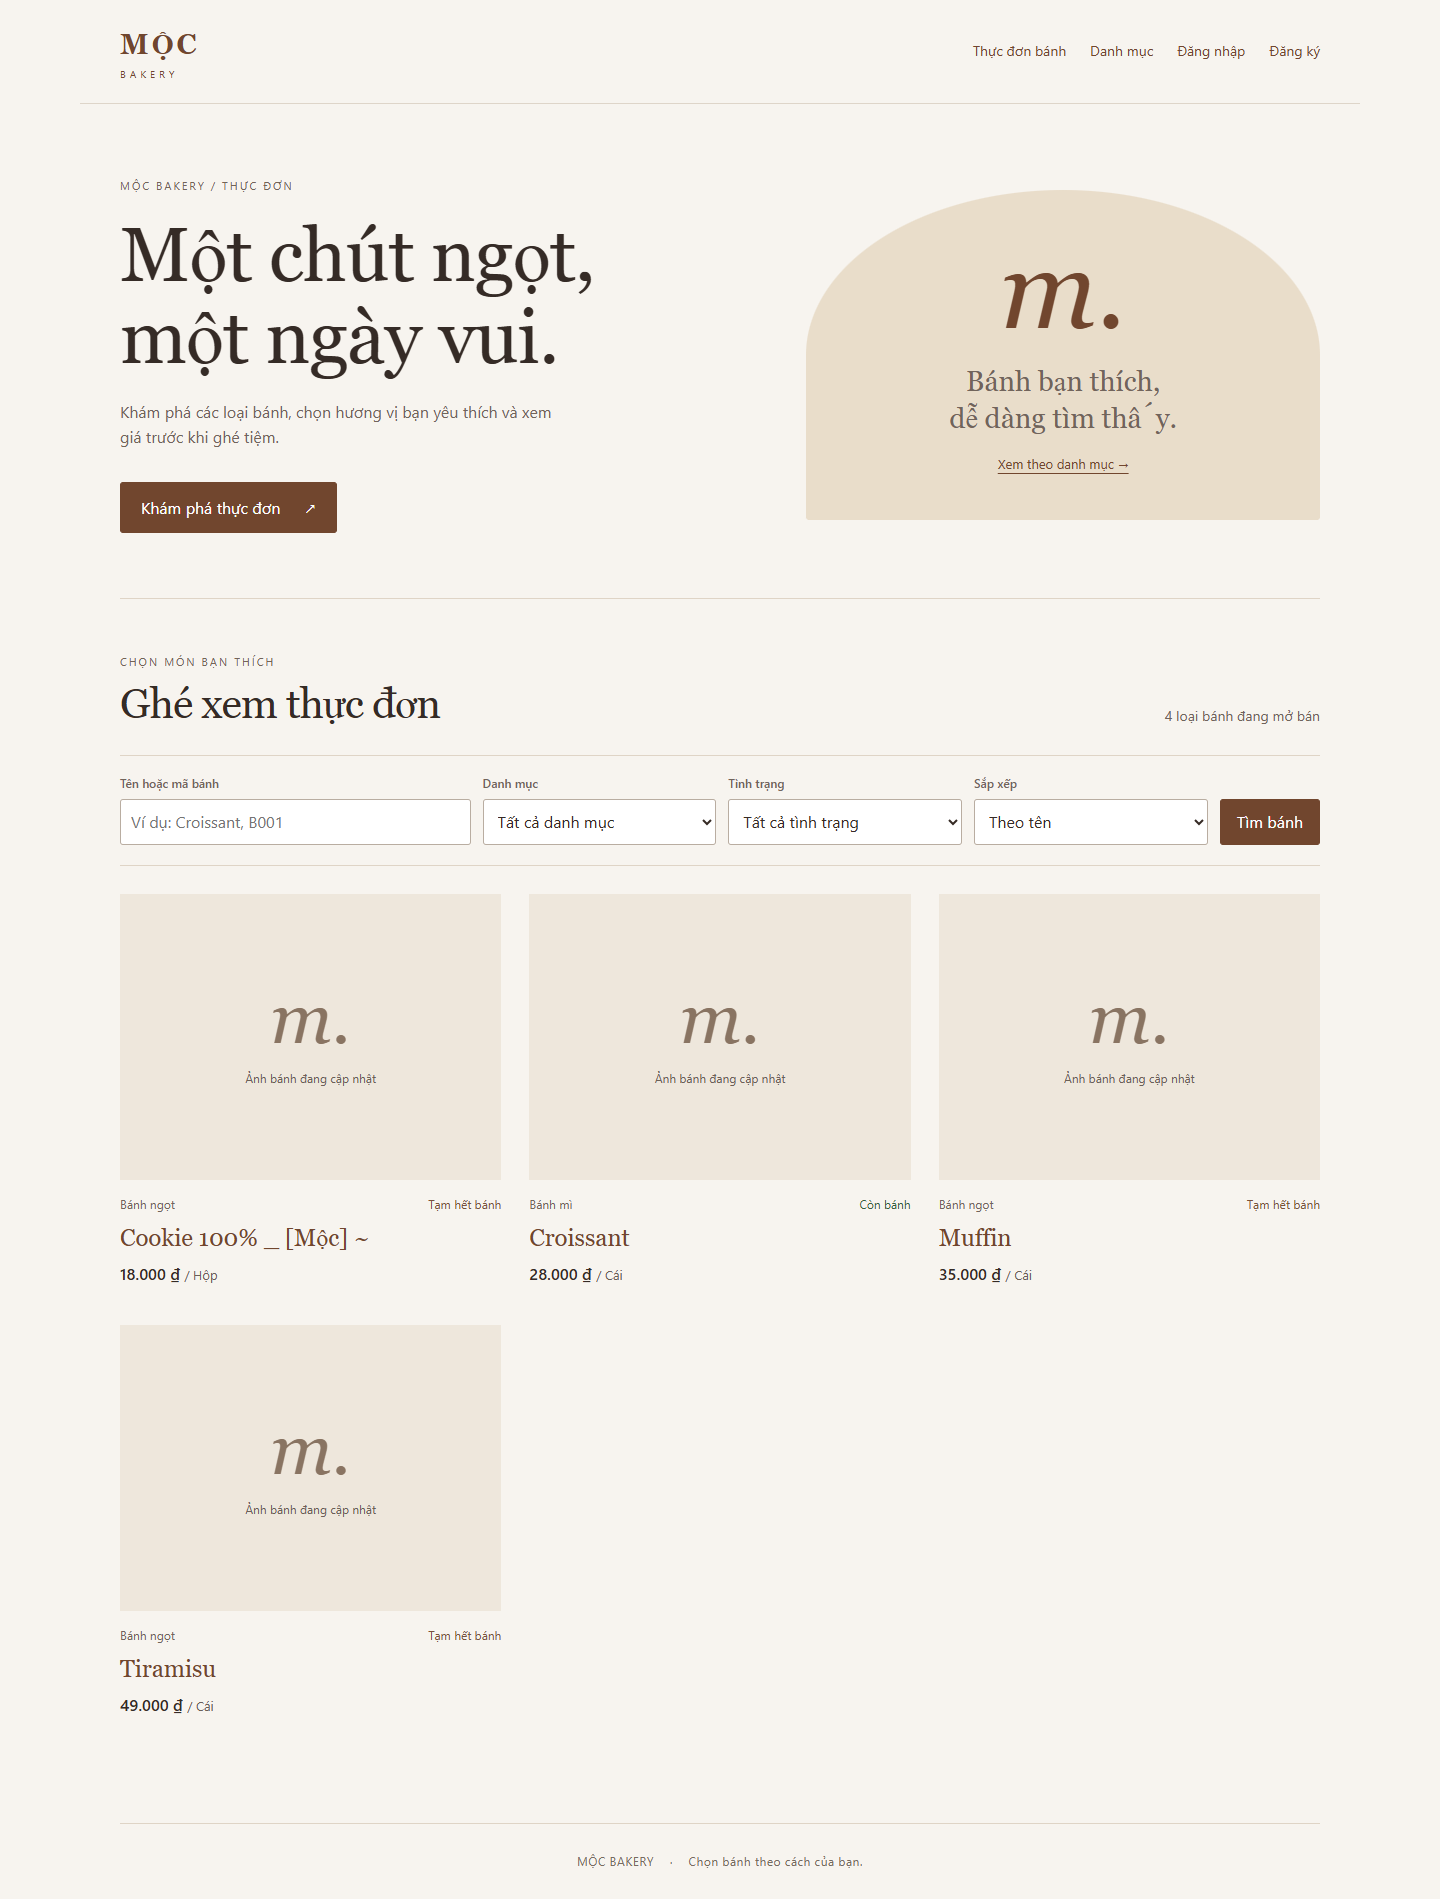
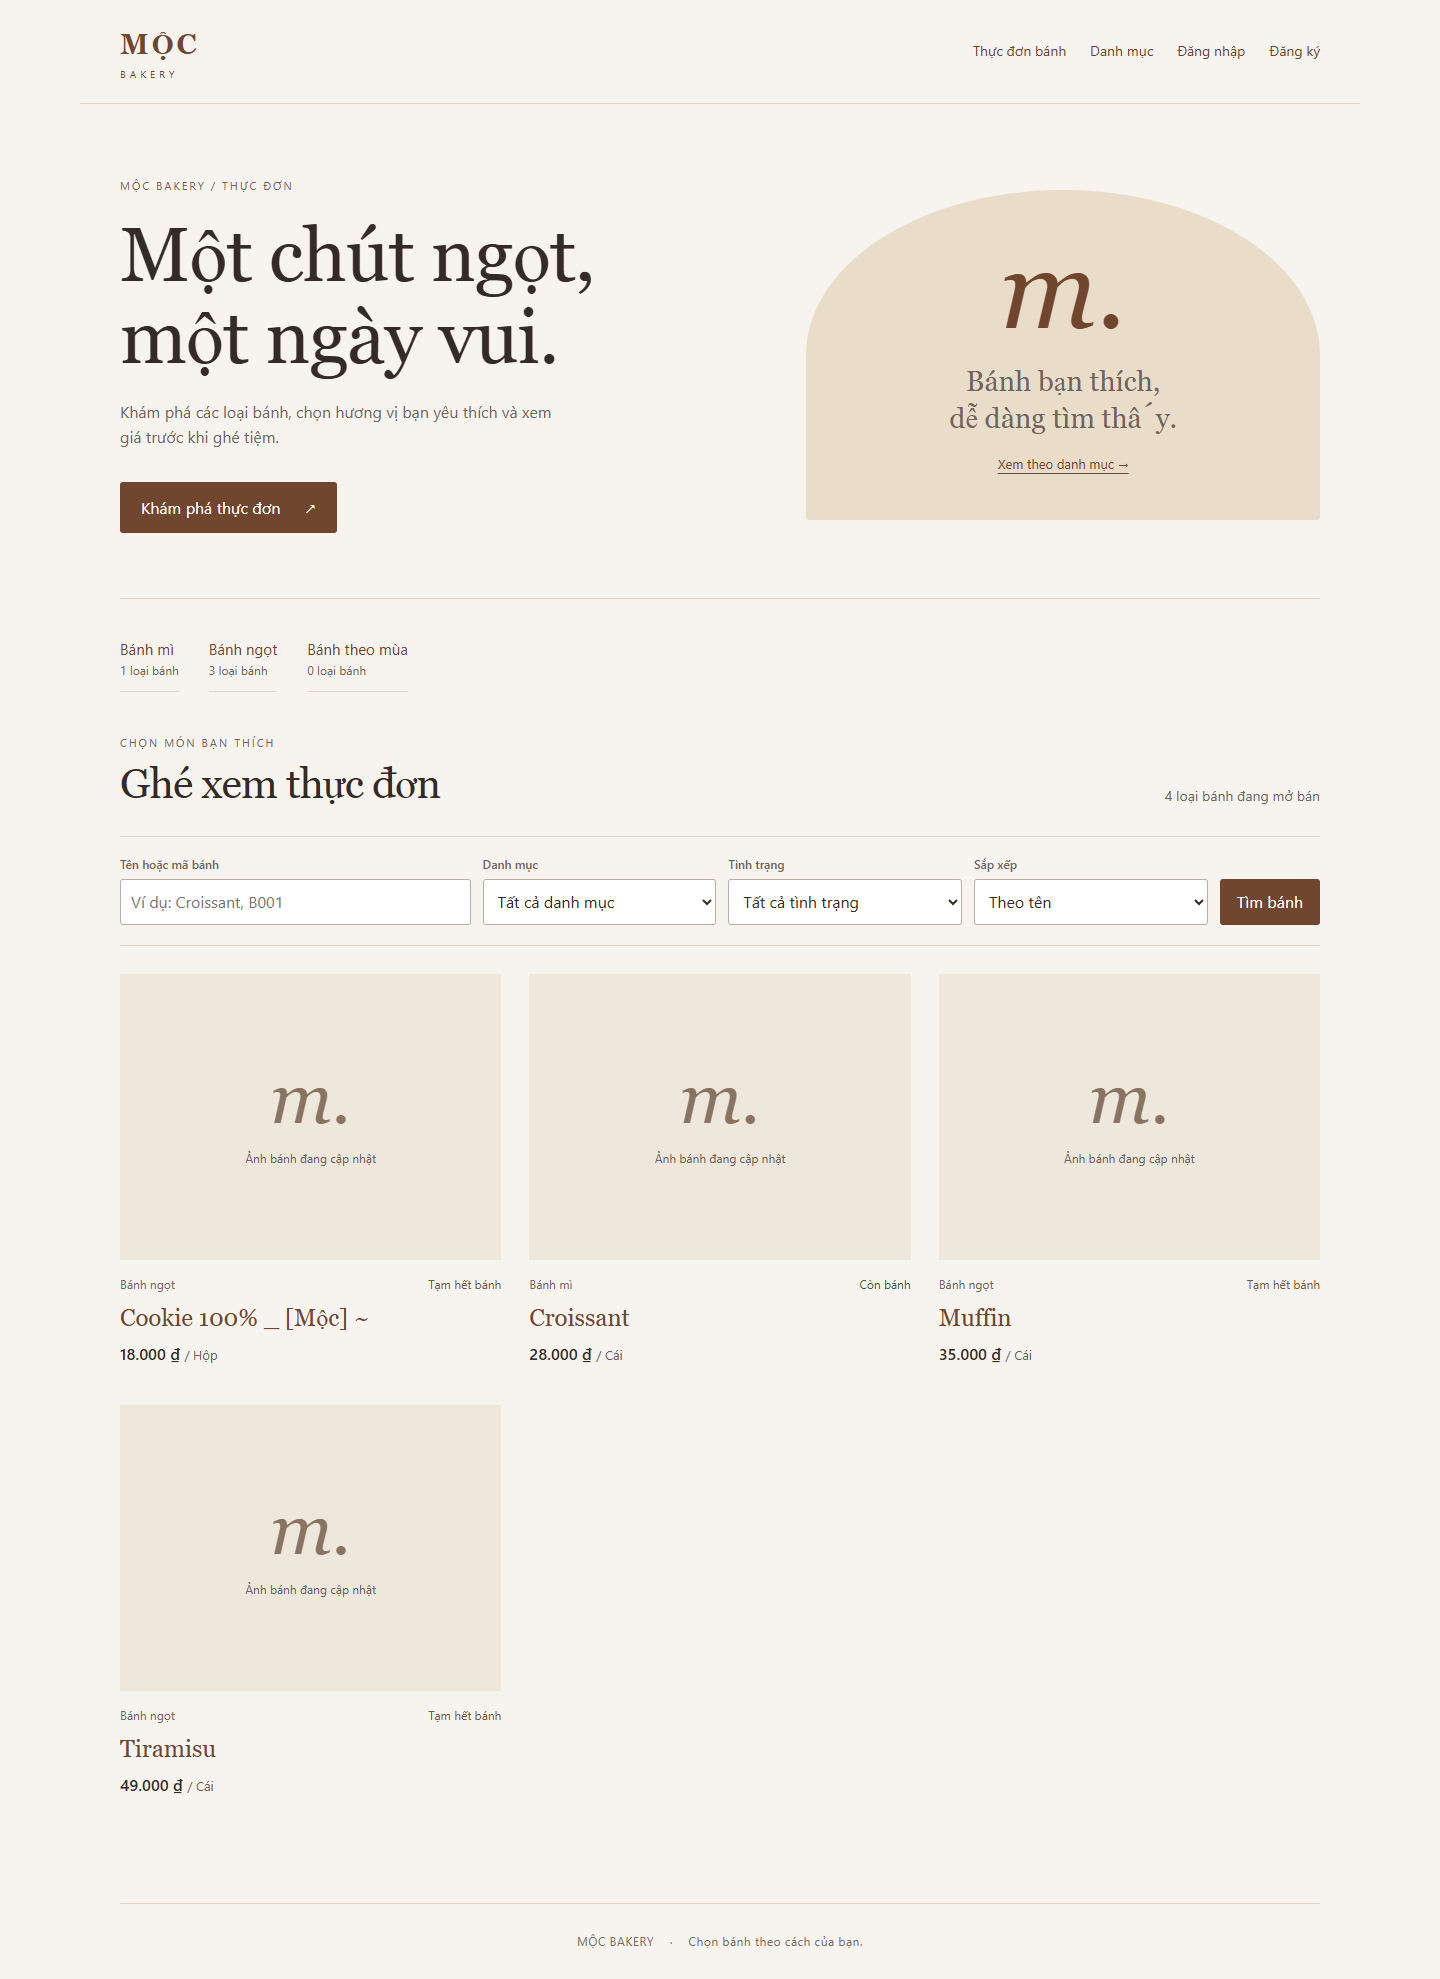
cập nhật minh chứng

diff --git a/MocBakery/docs/web/Nhu_GhepCapNhat_Nhom_Local.md b/MocBakery/docs/web/Nhu_GhepCapNhat_Nhom_Local.md
@@ -1,0 +1,52 @@
+# Giải thích phần Như và cập nhật nhóm trên máy
+
+## Nhóm vừa có gì
+
+Thái thêm trang sửa hồ sơ khách hàng ở commit `1cc547f` trên nhánh
+`feature/customer-web-20261118`. Có sửa họ tên, số điện thoại, địa chỉ, kiểm tra dữ liệu,
+giữ đúng danh tính đăng nhập và thông báo lưu thành công. Sau đó nhóm thêm đổi mật khẩu
+và kiểm thử SQL tài khoản. Phần xem bánh của Như đã ghép vào main tại `2f57cb5`.
+
+## Phần Như làm tiếp
+
+Ghép code Thái vào bản làm việc Như trên máy. Trang chủ được thêm liên kết từng danh mục
+kèm số loại bánh, giúp khách bấm trực tiếp để lọc. CSS chung ẩn vùng tổng kết lỗi khi
+biểu mẫu hợp lệ; trước đó trang hồ sơ hiện chấm đỏ rỗng do style ẩn mặc định bị chính
+sách Web chặn. Không đổi nghiệp vụ hoặc trường dữ liệu hồ sơ của Thái.
+
+## Hiểu phần của mình
+
+Như phụ trách quản lý danh mục và kho trên desktop, đồng thời phụ trách trang chủ,
+danh mục, tìm/lọc, chi tiết bánh và giao diện chung trên Web. Thái phụ trách tài khoản;
+Mai/Nam phụ trách giỏ và đơn. Khi khách bấm tìm bánh:
+
+1. **View** là trang khách nhìn thấy, có ô tìm, bộ lọc, giá và ảnh.
+2. **Controller** nhận từ khóa/danh mục rồi gọi service.
+3. **BLL** kiểm tra dữ liệu, chỉ cho xem bánh hợp lệ, chuẩn bị dữ liệu công khai.
+4. **DAL** gửi truy vấn có tham số tới SQL; kết quả đi ngược lại để hiện trên View.
+
+Các tệp chính: `Views/Catalog/Browse.cshtml`, `Controllers/CatalogController.cs`,
+`Services/Catalog/PublicCatalogService.cs` trong BLL, `PublicCatalogRepository.cs` trong
+DAL. `Views/Shared/_Layout.cshtml` là menu/khung chung; `wwwroot/css/site.css` chỉnh hình thức.
+
+Hai ứng dụng dùng cùng SQL nên chủ tiệm sửa giá/ảnh/trạng thái ở desktop, tải lại Web
+sẽ đọc dữ liệu mới. Web khách không hiện số tồn nội bộ, chỉ hiện còn/tạm hết bánh.
+Code kiểm tra lượng để Mai gọi lại lúc xác nhận không có nghĩa đã giữ kho hoặc tạo đơn.
+
+## Kiểm tra đợt ghép
+
+- Solution Release build thành công, 0 lỗi và 0 cảnh báo.
+- 39 ca PublicCatalog đạt, có SQL thật cho đăng ký/đăng nhập, chuyển sang thực đơn,
+  sửa hồ sơ rồi mở chi tiết vẫn giữ phiên và thấy giá đúng.
+- Bản ghép ban đầu đạt 35 ca WebAccounts. Khi ghép main có thêm đổi mật khẩu,
+  bộ WebAccounts đạt 50 ca; cùng 39 ca PublicCatalog là 89 ca ở hai bộ.
+- Edge kiểm tra 36 lượt trang trên bốn độ rộng 320, 375, 768, 1440 px, gồm trang tài
+  khoản và sửa hồ sơ; không cuộn ngang hoặc lỗi JavaScript. Thao tác thật chọn danh mục,
+  đăng nhập, sửa hồ sơ và về thực đơn đạt. Kiểm tra ẩn thông báo lỗi rỗng cũng đạt.
+- Log SQL/HTTP mới: `evidence/public-catalog-integration-local.txt`;
+  kết quả trình duyệt: `evidence/browser-result.json`; ảnh hồ sơ:
+  `evidence/profile-375.png`, `evidence/profile-1440.png`.
+
+Chỉ dùng LocalDB riêng, không sửa CSDL nhóm. Phần giao diện đã có trên main;
+kiểm thử bổ sung cùng tài liệu và ảnh được bàn giao qua hai commit tiếp theo.
+Toàn luồng giỏ/đơn vẫn cần phần Mai/Nam trước khi nhóm nghiệm thu chung.
